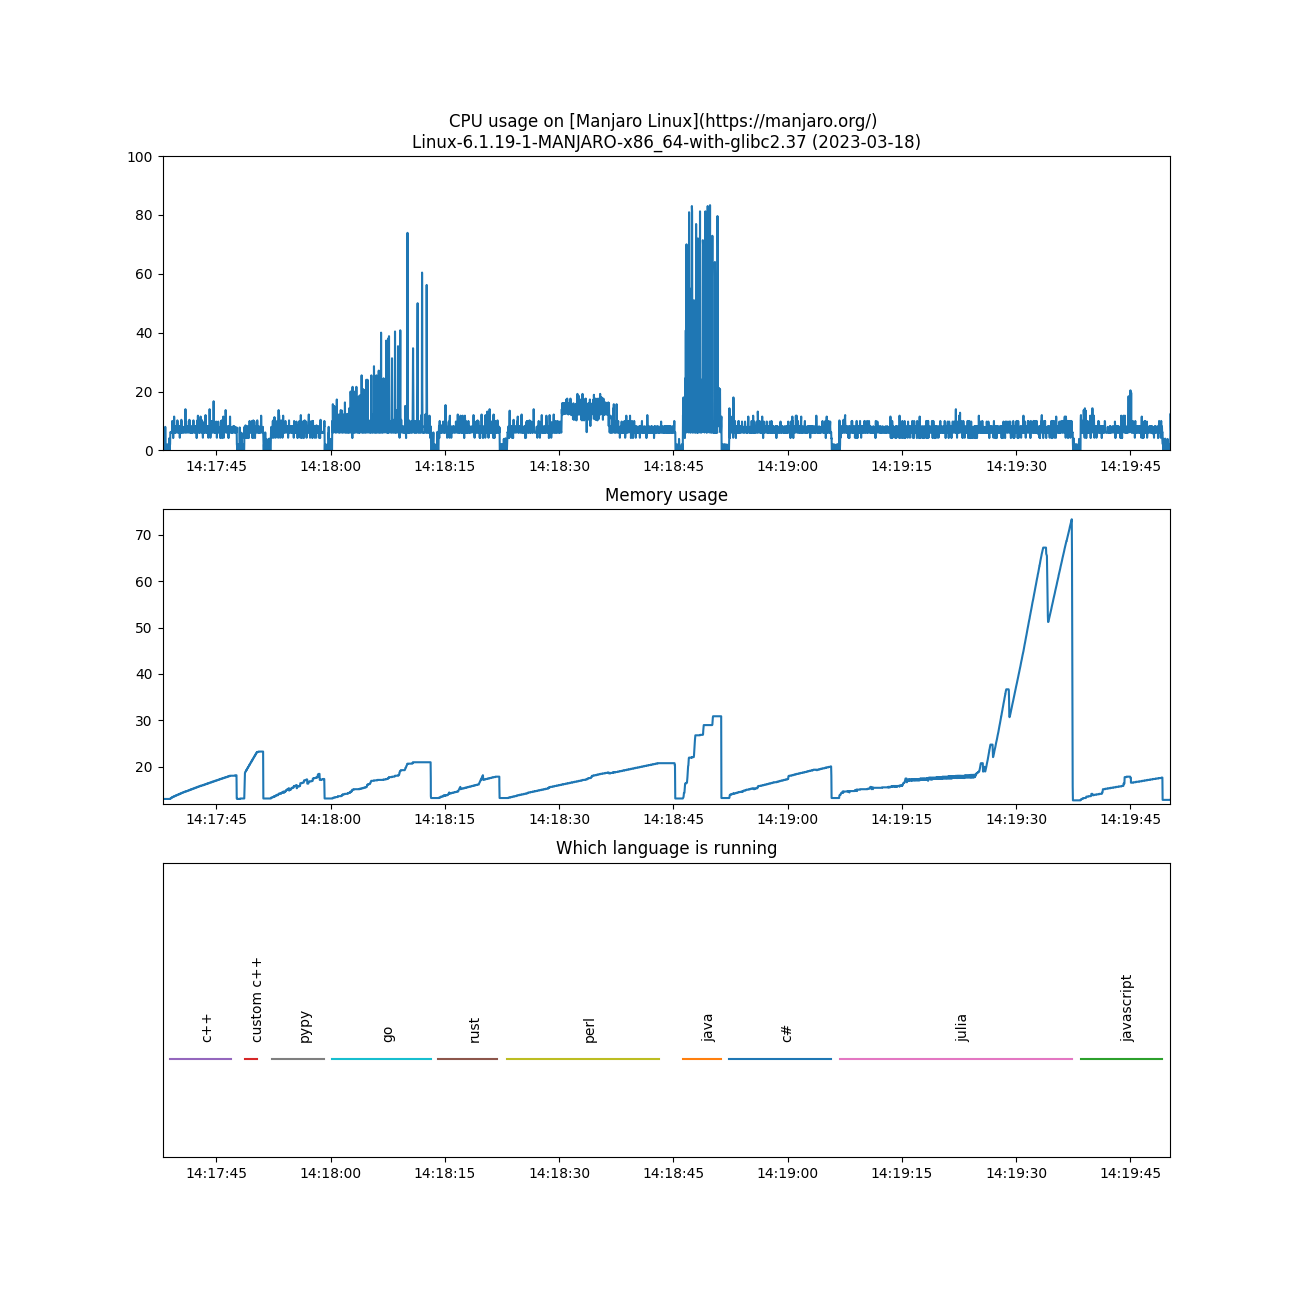
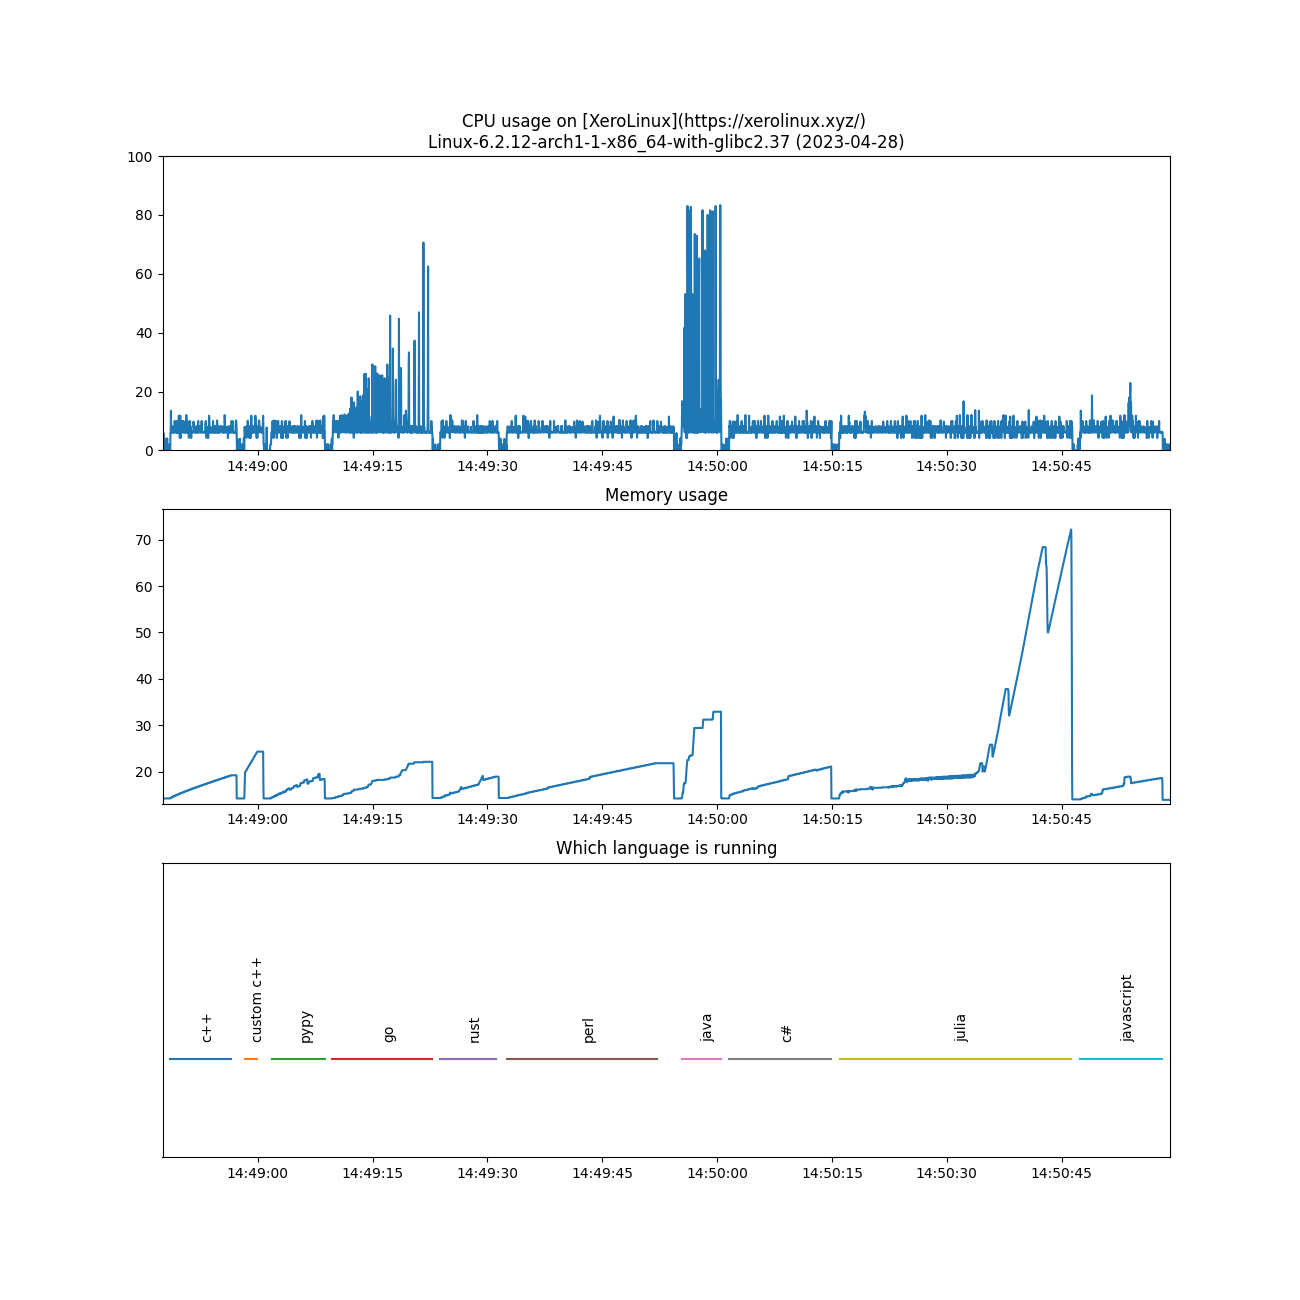
updating main results

diff --git a/README.md b/README.md
@@ -1,19 +1,26 @@
 # Performance Of [Programming Languages](https://www.randomguy.info/2022/07/on-linux-and-programming-languages.html)
 
-|                               Language                              |                                        Version                                         | Adjusted time based on CPU usage (seconds) | Average time (seconds) | Average CPU usage (%) | Average memory usage (%) |
-|--------|--------|--------|--------|--------|--------|
-|               [custom c++](https://www.randomguy.info)              |                                         (0,0)                                          |                   0.351                    |         0.323          |           6.796           |            20.787            |
-|                    [pypy](https://www.pypy.org/)                    |    Python 2.7.18 (Dec 31 2022, 19:17:26)     |                   1.506                    |         1.382          |           6.815           |            15.778            |
-|  [rust](https://en.wikipedia.org/wiki/Rust_(programming_language))  |                          rustc 1.68.0 (2c8cc3432 2023-03-06)                           |                   1.614                    |         1.528          |           6.601           |            15.447            |
-|             [c++](https://en.wikipedia.org/wiki/C%2B%2B)            |                               g++ (GCC) 12.2.1 20230201                                |                   1.785                    |         1.634          |           6.827           |            15.713            |
-|        [javascript](https://en.wikipedia.org/wiki/JavaScript)       |                                        v19.6.0                                         |                   2.324                    |         2.123          |           6.842           |            15.258            |
-|  [c#](https://en.wikipedia.org/wiki/C_Sharp_(programming_language)) |                                        7.0.202                                         |                   2.942                    |         2.698          |           6.815           |            17.016            |
-|  [java](https://en.wikipedia.org/wiki/Java_(programming_language))  |                               openjdk 19.0.2 2023-01-17                                |                   3.139                    |         1.024          |           19.153          |            26.188            |
-|  [go](https://go.dev/)  |                            go version go1.20.2 linux/amd64                             |                   3.723                    |         2.533          |           9.188           |            17.227            |
-|              [perl](https://en.wikipedia.org/wiki/Perl)             | This is perl 5, version 36, subversion 0 (v5.36.0) built for x86_64-linux-thread-multi |                   4.201                    |         3.917          |           6.703           |            16.999            |
-| [julia](https://en.wikipedia.org/wiki/Julia_(programming_language)) |                                  julia version 1.8.5                                   |                   6.457                    |         6.124          |           6.590           |            27.512            |
+Lower is better - on [XeroLinux](https://xerolinux.xyz/)
+Linux-6.2.12-arch1-1-x86_64-with-glibc2.37 on 2023-04-28 with [AMD Ryzen 7 5825U with Radeon Graphics](https://www.amd.com/en/products/apu/amd-ryzen-7-5825u) and 13.5 GB of RAM memory:
+
+|                                      Language                                     |                                        Version                                         | Adjusted time based on CPU usage (seconds) | Average time (seconds) | Average CPU usage (%) | Average memory usage (%) |
+|:---------------------------------------------------------------------------------:|:--------------------------------------------------------------------------------------:|:------------------------------------------:|:----------------------:|:---------------------:|:------------------------:|
+|                      [custom c++](https://www.randomguy.info)                     |                                         (0,0)                                          |                   0.357                    |         0.321          |         6.953         |          21.762          |
+|                     [pypy](https://en.wikipedia.org/wiki/PyPy)                    |    Python 2.7.18 (646866ee1eabe7bdbdc97b47a40b472991d571e9, Dec 31 2022, 19:17:26)     |                   1.497                    |         1.384          |         6.756         |          16.627          |
+|         [rust](https://en.wikipedia.org/wiki/Rust_(programming_language))         |                          rustc 1.69.0 (84c898d65 2023-04-16)                           |                   1.608                    |         1.469          |         6.839         |          16.356          |
+|                    [c++](https://en.wikipedia.org/wiki/C%2B%2B)                   |                               g++ (GCC) 12.2.1 20230201                                |                   1.766                    |         1.630          |         6.774         |          16.615          |
+|               [javascript](https://en.wikipedia.org/wiki/JavaScript)              |                                        v19.9.0                                         |                   2.471                    |         2.141          |         7.213         |          16.830          |
+|         [c#](https://en.wikipedia.org/wiki/C_Sharp_(programming_language))        |                                        7.0.203                                         |                   2.960                    |         2.698          |         6.858         |          17.881          |
+|         [java](https://en.wikipedia.org/wiki/Java_(programming_language))         |                               openjdk 20.0.1 2023-04-18                                |                   3.165                    |         1.128          |         17.533        |          27.919          |
+| [go](https://spectrum.ieee.org/go-language-tops-list-of-indemand-software-skills) |                            go version go1.20.3 linux/amd64                             |                   3.799                    |         2.598          |         9.141         |          17.965          |
+|                     [perl](https://en.wikipedia.org/wiki/Perl)                    | This is perl 5, version 36, subversion 0 (v5.36.0) built for x86_64-linux-thread-multi |                   4.306                    |         3.908          |         6.886         |          17.856          |
+|        [julia](https://en.wikipedia.org/wiki/Julia_(programming_language))        |                                  julia version 1.8.5                                   |                   6.542                    |         6.033          |         6.777         |          29.109          |
 
 
 ![perfcomp_final](./img/perfcomp_final.png)
 ![perfcomp1](./img/perfcomp1.png)
 ![cpumem1](./img/cpumem1.png)
+
+[Other OS results](./results_os/)
+
+[Distro Watch](https://distrowatch.com/)
